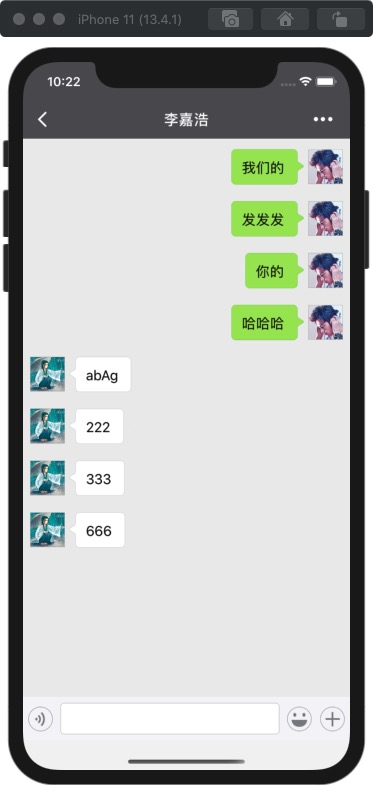
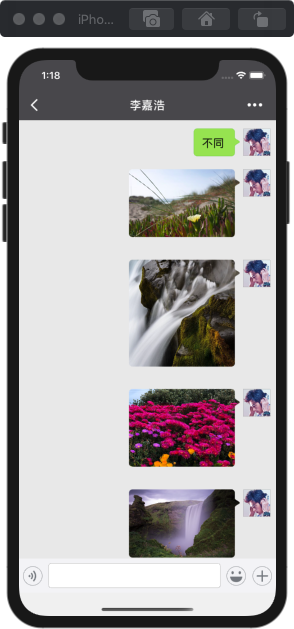
更新

diff --git a/README.md b/README.md
@@ -9,6 +9,7 @@
 	* 未读消息标记
 	* 实时通讯
 	* 文字聊天
+	* 图片消息
 2. 通讯录
 	* 好友列表（分组算法、DB）
 	* 好友资料 (基础)
@@ -17,7 +18,7 @@
 4. 我界
 	* 界面 (整体UI)
 ### 待实现功能（接下来一个月陆续完成）
-1. 微信首页: 图片消息、语音消息、视频消息、视频聊天
+1. 微信首页: 语音消息、视频消息、视频聊天
 
 2. 通讯录: 扫一扫、搜索 添加好友
 
